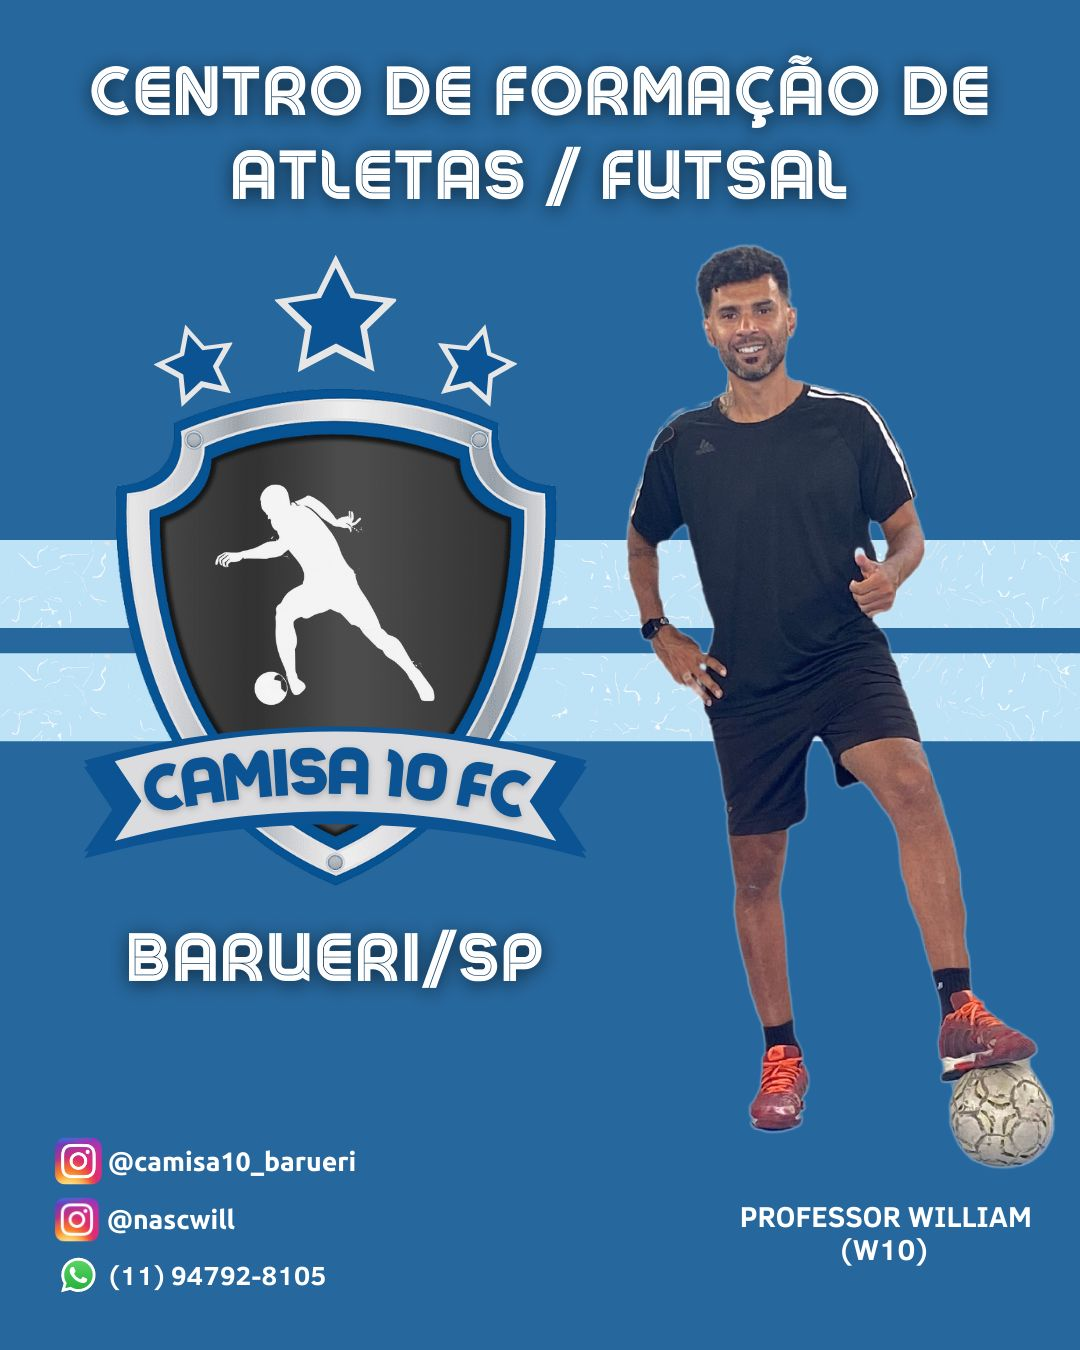
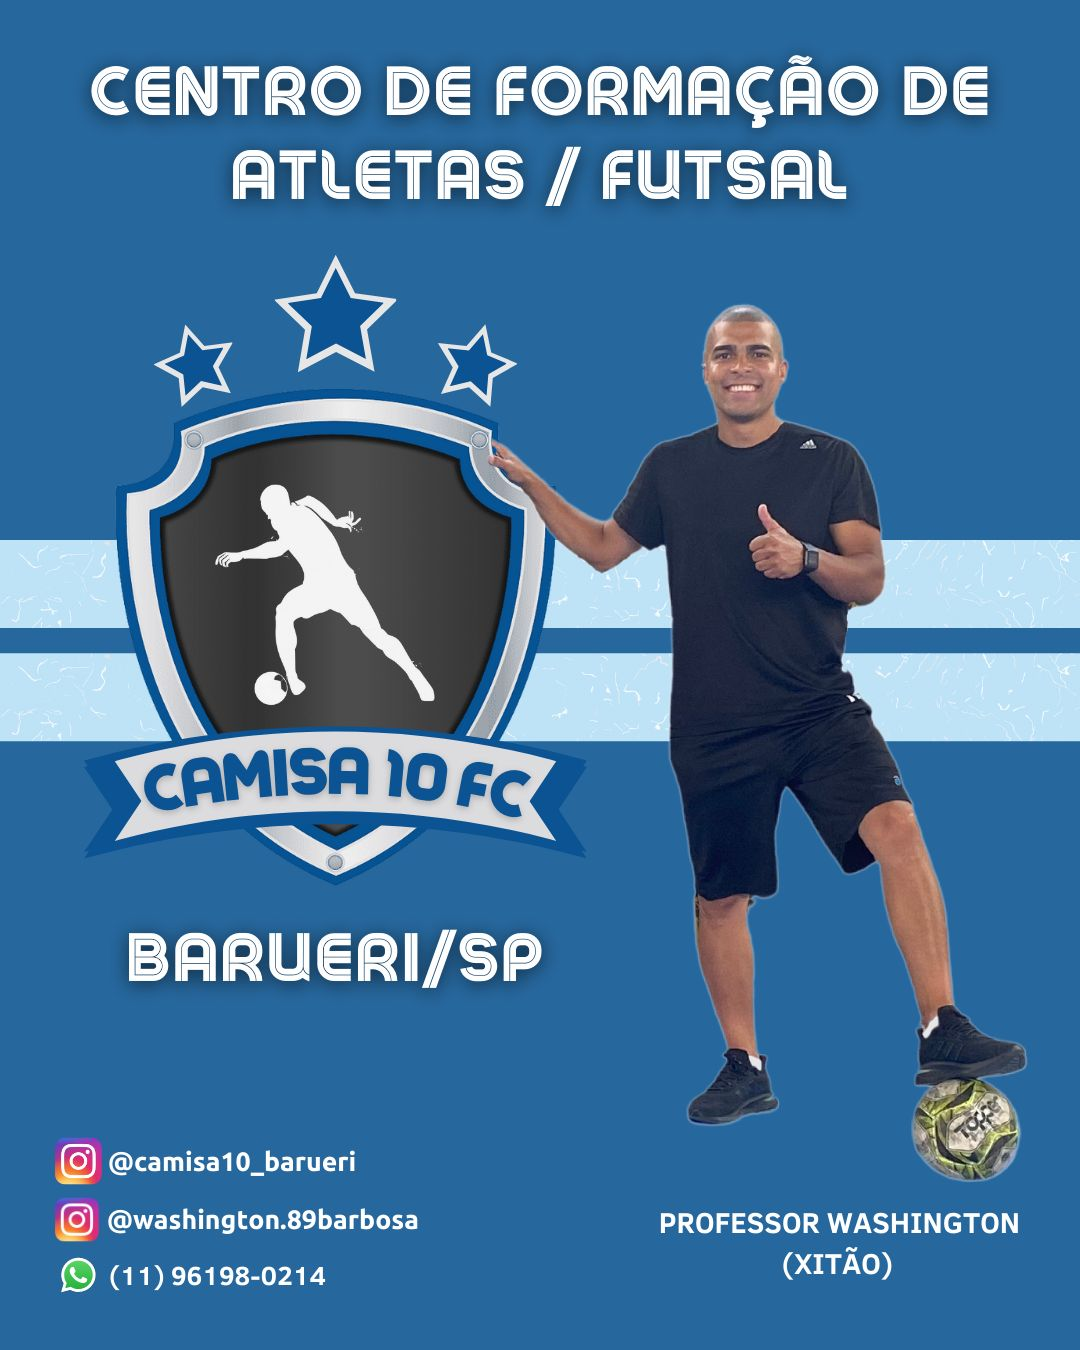
Inserção do treinador Thiago Alves

Changed region(s): [[0.4583, 0.1556, 0.9778, 0.9644], [0.1222, 0.8711, 0.3972, 0.9644]]

diff --git a/index.htm b/index.htm
@@ -252,20 +252,53 @@
     </div>
 
     <section class="gallery">
+
         <div class="container">
             <div class="row row-cols-1 row-cols-md-2 row-cols-lg-2 gy-4">
 
                 <div class="col">
-                    <img src="./images/TREINADORES/treinador1.jpeg" alt="Treinador Washington">
+                    <img src="./images/TREINADORES/treinador1.jpeg" alt="Treinador Thiago">
                 </div>
 
                 <div class="col">
-                    <h4> <a class="instagram" href="https://www.instagram.com/washington.89barbosa/">WASHINGTON
-                            BARBOSA</a> </h4>
+                    <h3> THIAGO ALVES </h3>
+
+                    <div>
+                        <a href="https://www.instagram.com/treinador_thiagoalves/" class="bi bi-instagram mx-2"></a>
+                    </div>
 
                     <p class="biografia">
+                   
+                        Fala Time, é com muito orgulho que anunciamos a contratação do Professor Thiago Alves
+                        para reforçar nossa equipe e garantir ainda mais qualidade em nossas
+                        categorias de iniciação.
                         <br>
                         <br>
+                        O fera é o atual Campeão da Liga Paulista de Futsal (categorias Sub11 e Sub13), fazendo um
+                        excelente trabalho à frente da equipe do BARUERI Esporte Forte.
+                        <br>
+                        <br>
+                        Seja bem vindo Professor Thiago, o Camisa 10 FC lhe recebe de braços abertos e desde já sabemos
+                        que essa parceria trará muitos frutos!
+                        <br>
+                        <br>
+                    </p>
+                </div>
+
+
+                <div class="col">
+                    <img src="./images/TREINADORES/treinador2.jpeg" alt="Treinador Washington">
+                </div>
+
+                <div class="col">
+                    <h3> WASHINGTON BARBOSA </h3>
+                    <div>
+                        <a href="https://www.instagram.com/washington.89barbosa/" class="bi bi-instagram mx-2"></a>
+                    </div>
+
+
+                    <p class="biografia">
+
                         Nosso canhotinho é aquele Camisa 10 Clássico, habilidoso e com alto poder de definição.
                         Profissional atencioso, detalhista, comunicativo e com características naturais de
                         liderança.
@@ -293,31 +326,32 @@
 
 
                 <div class="col">
-                    <img src="./images/TREINADORES/Treinador2.jpeg" alt="Treinador William Nascimento">
+                    <img src="./images/TREINADORES/Treinador3.jpeg" alt="Treinador William Nascimento">
+                    
                 </div>
 
                 <div class="col">
-                    <h4> <a class="instagram" href="https://www.instagram.com/nascwill/">WILLIAM NASCIMENTO</a>
-                    </h4>
+                    <h3> WILLIAM NASCIMENTO </h3>
+
+                    <div>
+                        <a href="https://www.instagram.com/nascwill/" class="bi bi-instagram mx-2"> </a>
+
+                    </div>
 
                     <p class="biografia">
-                        <br>
-                        <br>
+
                         Nosso W10 é o típico Camisa 10 Moderno, cerebral na distribuição do jogo e com uma perna
                         direita
                         fatal quando o assunto é balançar as redes. Profissional com excelente relacionamento
                         interpessoal, comunicativo, líder e motivador.
                         <br>
-                        <br>
                         Em sua carreira como atleta destacam-se as passagens, sempre acompanhadas de muitos
                         gols, pelas
                         equipes do Roma Barueri; Araçariguama; Campinense; Eco Osasco e Palmeiras.
                         <br>
-                        <br>
                         Atua voluntariamente pelo Projeto Social W10 - Futsal, aonde compartilha toda
                         experiência e
                         conhecimento com aproximadamente 30 crianças atualmente.
-                        <br>
                         <br>
                         Possui Certificação como Coaching (Liderança / Inteligência Emocional) e encontra-se em
                         curso de
@@ -325,11 +359,13 @@
                         sub10)
                         e Categorias de base (sub12 ao sub18).
                     </p>
+
                 </div>
             </div>
         </div>
     </section>
     <!-- FIM container TREINADORES-->
+
 
 
     <!-- CONVITE -->
@@ -363,7 +399,7 @@
     <div id="redes_sociais" class="redessociais">
         <p class="mx-3 ">
             <h3>Siga-nos nas redes sociais! </h3>
-            <a href="https://www.instagram.com/camisa10_barueri/" class="bi bi-instagram mx-2 ">
+            <a href="https://www.instagram.com/camisa10_barueri/" class="bi bi-instagram mx-2">
             </a>
             <h3> <a class="instagram" href="https://www.instagram.com/camisa10_barueri/">@camisa10_Barueri</a>
             </h3>
